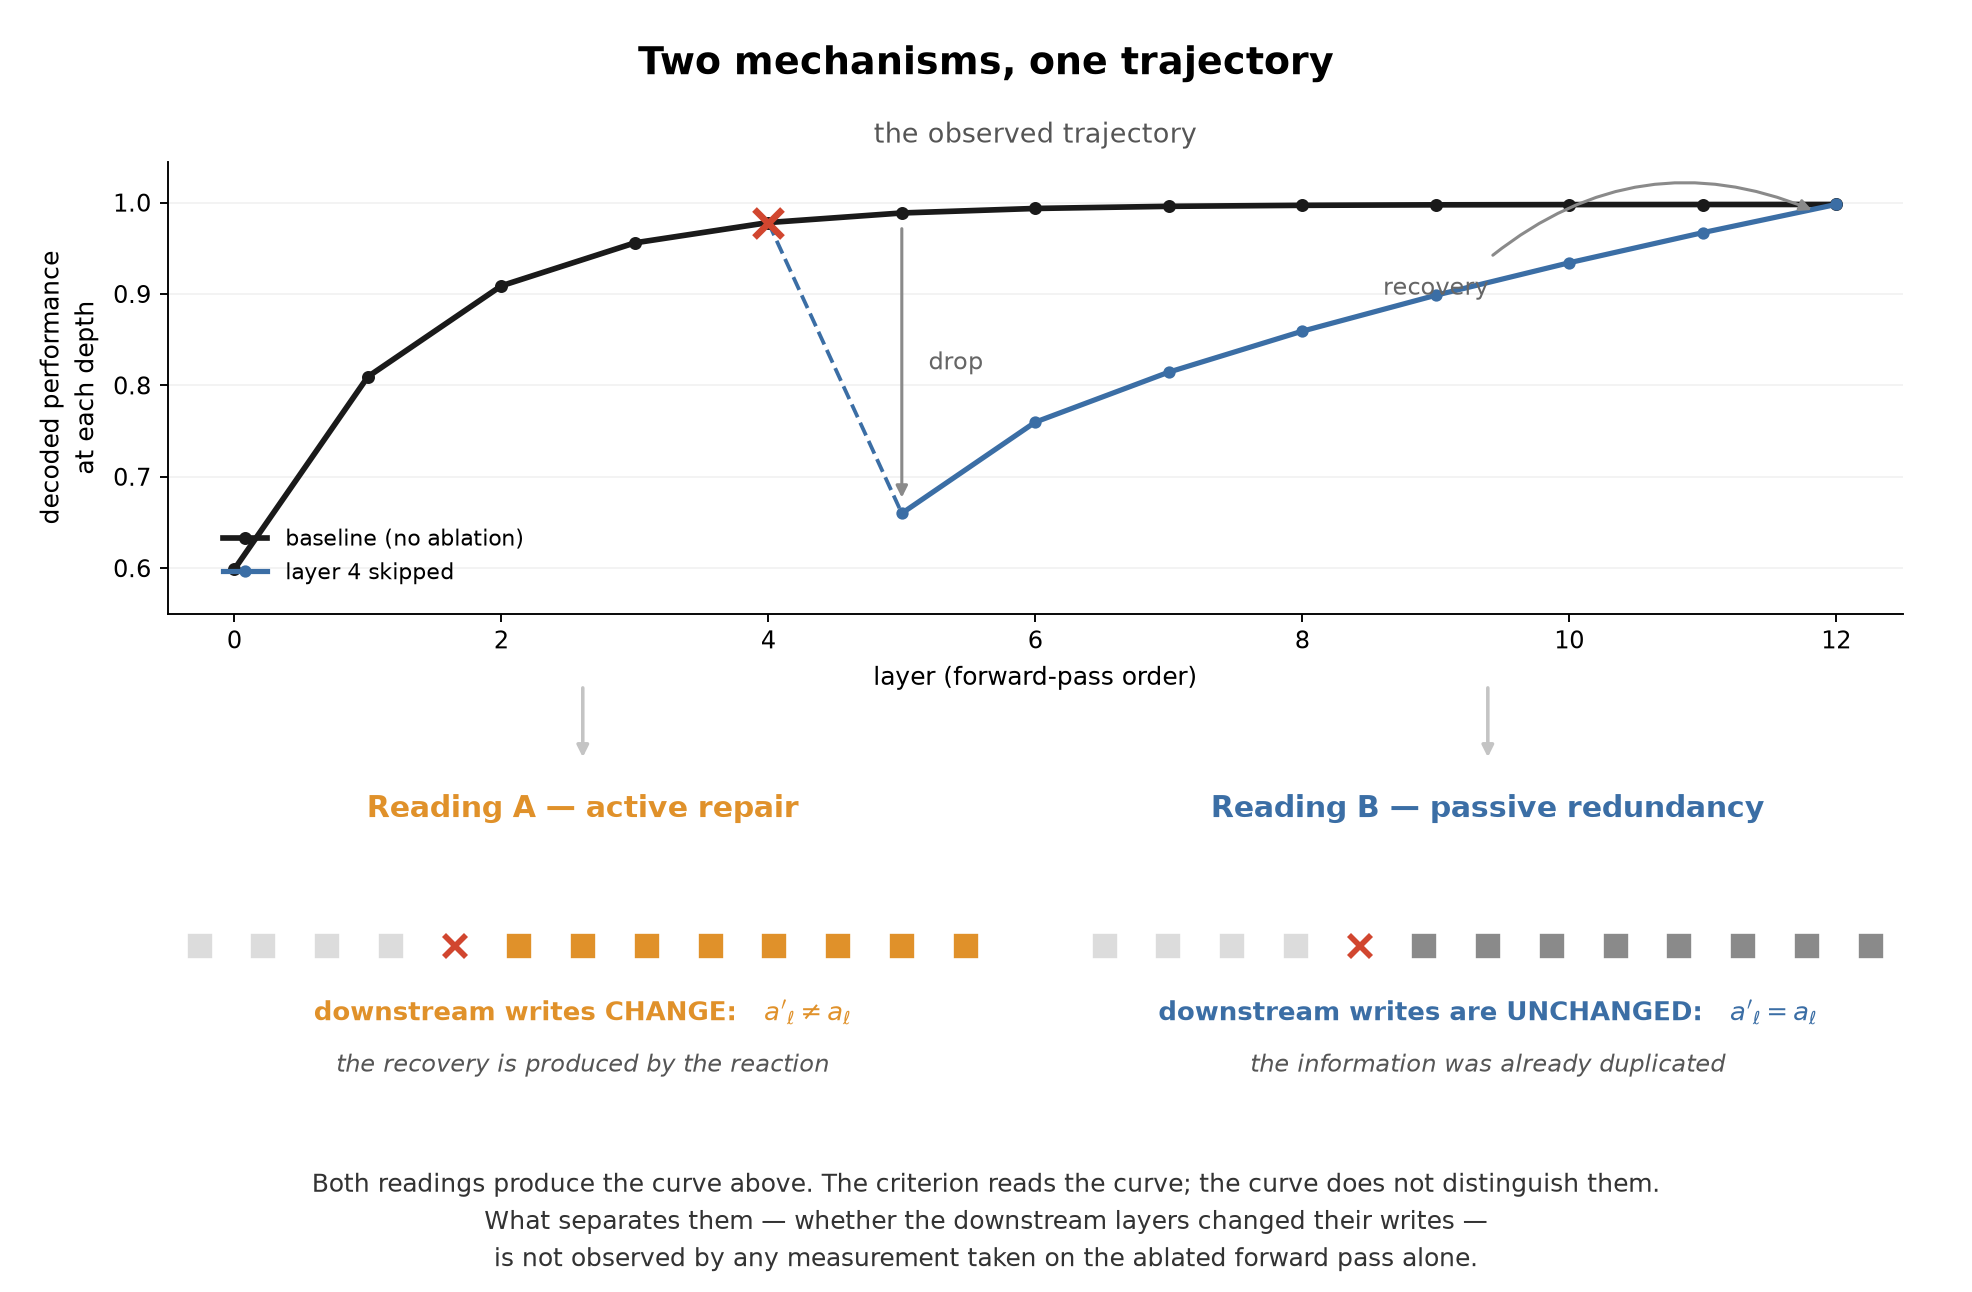
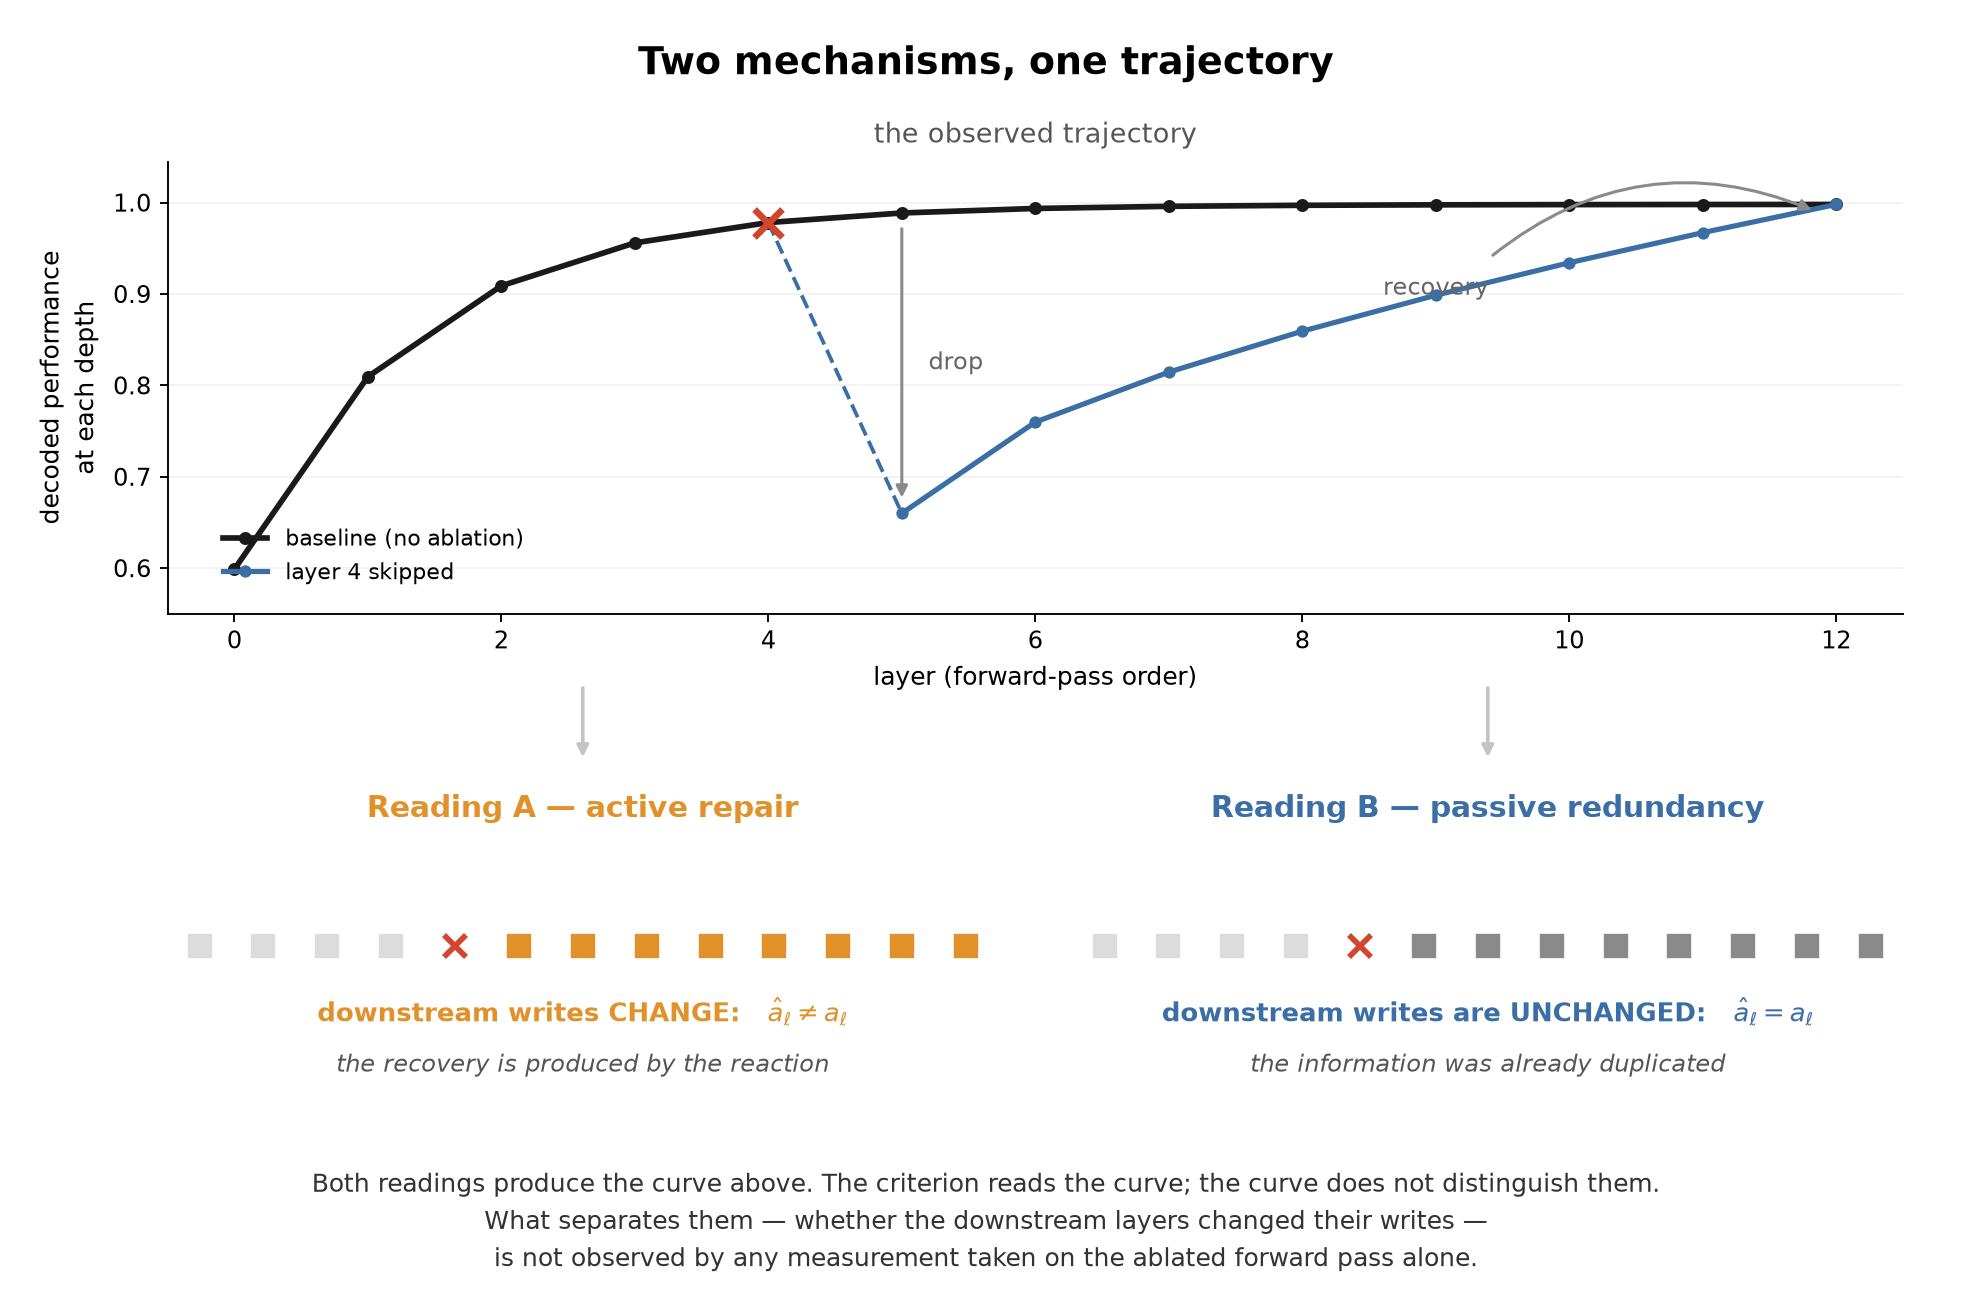
article: section 2 pass
Definitions:
- define "clean" before using it, and tie it to the Original panel of
  Figure 1; note that the figure writes the substituted value a', where
  the text writes \tilde{a}
- y was "the output read from the final decoder", which says nothing
  about what kind of quantity it is; say it is a scalar measuring how
  strongly the model favours the correct class, fixed in section 4
- cite Pearl for the causal model and the effect decomposition [6]; that
  framing is not McGrath et al.'s contribution, CE is

Toy example:
- components are A and B, their written values a and b, matching Figure 1
- give the readout y = a + b and the intervention do(A = 0); without
  them the DE/TE/CE columns cannot be checked
- drop the clean-y column, which was constant; that all three worlds
  agree when clean is a point, so it goes in the prose
- state the effects per pair of worlds instead of as ordered triples
  0,0,1 / 0,1,1, which the reader had to align by position
- caption all three tables in the article

Quantification in language models:
- TE << DE overstates it; the slope of 0.69 means 30% survives. TE < DE
- "Reproduced from" for Figures 1 and 2 read as if we re-ran them. They
  are taken from [1]. Figure 3 keeps "our reproduction" — that one we did
  re-run
- say what a point in Figure 2 is
- move the R^2/slope gloss to a footnote and cite the source figures
  (Figure 2c, Figures 4b and 4d of [1])

Notation: the ablated-pass write was a'_\ell, colliding with the figure's
[…]

Changed region(s): [[0.5877, 0.774, 0.928, 0.805], [0.1547, 0.774, 0.4331, 0.805]]

diff --git a/articles/tfm-self-repair.md b/articles/tfm-self-repair.md
@@ -37,39 +37,43 @@ Mechanistic interpretability rests on a simple inference. We ablate a component,
 ## 2. Self-repair: definition and prior quantification
 {: #definition}
 
-**Intuition.** The intuition behind self-repair is that a network is not a fixed pipeline but a system that reacts to its own damage. When a component is removed, the components downstream of it see a different residual stream, and they may respond by writing something different from what they would have written otherwise. Self-repair is the case in which that response pushes the output back towards its undamaged value. Note that the definition is a statement about the downstream *reaction*, not about the output: an output that barely moves is compatible with a strong reaction and with no reaction at all.
+**Intuition.** The intuition behind self-repair is that a network is not a fixed pipeline but a system that reacts to its own damage. When a component is removed, the components downstream of it see a different residual stream, and they may respond by writing something different from what they would have written otherwise. Self-repair is the case in which that response pushes the output back towards its undamaged value. Note that the definition is a statement about the downstream *reaction*, not about the output: an output that barely moves is compatible with a strong reaction (e.g., active repair) and with no reaction at all (e.g., passive redundancy).
 
-**Formalism.** We treat the network as a causal model in which \\(A\\) denotes the component under study, \\(B\\) denotes everything downstream of it, and \\(y\\) denotes the output read from the final decoder. Let \\(\tilde{a}\\) be the value we substitute for \\(A\\)'s output. We define three effects, which differ only in what we allow to react.
+**Formalism.** The network can be viewed as a causal model [[6](#ref-6)] in which \\(A\\) denotes the component under study (e.g., a layer or an attention head), \\(B\\) denotes everything downstream of it, and \\(y\\) denotes a scalar read off the final decoder that measures how strongly the model favours the correct class; we fix the choice in Section 4. We refer to the unablated forward pass as the *clean* pass — the **Original** panel of Figure 1 — and to the value a component takes in it as its *clean* value. Let \\(\tilde{a}\\) be the value we substitute for \\(A\\)'s output, written \\(a'\\) in the figure. We define three effects, illustrated in the remaining three panels, which differ only in what we allow to react.
 
 - The **total effect** \\(TE\\) is the change in \\(y\\) when we set \\(A = \tilde{a}\\) and let \\(B\\) react freely.
 - The **direct effect** \\(DE\\) is the change in \\(y\\) when we set \\(A = \tilde{a}\\) and simultaneously freeze \\(B\\) at its clean values, so that only the path \\(A \to y\\) carries the intervention.
 - The **indirect effect** \\(IE\\) is the change in \\(y\\) when we leave \\(A\\) clean and set \\(B\\) to the values it would take under the intervention, so that only the path \\(A \to B \to y\\) carries it.
 
 ![Total, direct, and indirect effects](/assets/img/tfm-self-repair/hydra-te-de-ie.png)
-*Figure 1: the three effects differ only in which nodes are pinned to their clean values. Reproduced from McGrath et al. [[1](#ref-1)].*
+*Figure 1: **Original** is the clean pass, in which \\(a\\) and \\(b\\) take their clean values. The three effects differ only in which nodes the intervention reaches: \\(do(A = a')\\) substitutes \\(A\\)'s output, and \\(do(B = b)\\) pins \\(B\\) to its clean value so that the intervention cannot travel through it. Taken from [[1](#ref-1)].*
 
-The three are related by \\(TE = DE + IE\\). Following McGrath et al. [[1](#ref-1)] we define the **compensation effect**
+The three are related by \\(TE = DE + IE\\). Following [[1](#ref-1)] we define the **compensation effect**
 
 $$CE = DE - TE = -IE ,$$
 
 and we say that a component *self-repairs* if \\(CE > 0\\), i.e., if the damage that reaches the output is smaller than the damage the component's own contribution would predict. Note that \\(CE < 0\\) means the downstream reaction amplifies the loss and \\(CE = 0\\) means the downstream layers are passive.
 
-**Why both quantities are needed.** It is easy to see that neither effect alone identifies self-repair. Consider a toy network with two components, \\(a\\) and \\(b\\), writing into a shared stream read at the output, and consider three worlds.
+**Why both \\(TE\\) and \\(DE\\) are needed.** It is easy to see that neither effect alone identifies self-repair. Consider a toy network with two components, \\(A\\) and \\(B\\), writing values \\(a\\) and \\(b\\) into a shared stream read at the output as \\(y = a + b\\), and consider three worlds. All three produce the same clean output, \\(y = 1\\), so nothing distinguishes them until we intervene; the intervention is \\(do(A = 0)\\).
 
-| world | \\(a\\) writes | \\(b\\)'s rule | clean \\(y\\) | \\(DE\\) | \\(TE\\) | \\(CE\\) |
-|---|---|---|---|---|---|---|
-| ① redundant | \\(0\\) | \\(b = 1\\) always | \\(1\\) | \\(0\\) | \\(0\\) | \\(0\\) |
-| ② repaired | \\(1\\) | \\(b = 1 - a\\) | \\(1\\) | \\(1\\) | \\(0\\) | \\(1\\) |
-| ③ load-bearing | \\(1\\) | \\(b = 0\\) always | \\(1\\) | \\(1\\) | \\(1\\) | \\(0\\) |
+| world | \\(A\\) writes | \\(B\\)'s rule | \\(DE\\) | \\(TE\\) | \\(CE\\) |
+|---|---|---|---|---|---|
+| ① redundant | \\(0\\) | \\(b = 1\\) always | \\(0\\) | \\(0\\) | \\(0\\) |
+| ② repaired | \\(1\\) | \\(b = 1 - a\\) | \\(1\\) | \\(0\\) | \\(1\\) |
+| ③ load-bearing | \\(1\\) | \\(b = 0\\) always | \\(1\\) | \\(1\\) | \\(0\\) |
 
-The total effect takes the values \\(0, 0, 1\\) and therefore cannot separate ① from ②; the direct effect takes the values \\(0, 1, 1\\) and therefore cannot separate ② from ③. Only the gap, \\(CE = 0, 1, 0\\), isolates the repaired world. We use this table as the reading key for the remainder of the paper.
+*Table 1: three worlds that are indistinguishable at the clean output. Only \\(CE\\) takes a different value in each of the three, so only \\(CE\\) identifies the repaired one.*
 
-**Quantification in language models.** McGrath et al. [[1](#ref-1)] evaluate a 7B-parameter Chinchilla model on 1209 factual-recall prompts, ablating one attention layer at a time. They obtain \\(DE\\) by unembedding the layer's own output directly, and \\(TE\\) by ablating the layer and reading the final logits. Figure 2 shows their central result: the point cloud of \\((DE, TE)\\) pairs sits predominantly *below* the diagonal \\(y = x\\), i.e., \\(TE \ll DE\\) for a large fraction of (layer, prompt) pairs. This is the decoupling that the naive ablation account does not predict, and it is the empirical signature of \\(CE > 0\\).
+The total effect is \\(0\\) in both ① and ②, and therefore cannot separate them; the direct effect is \\(1\\) in both ② and ③, and therefore cannot separate those. Only the gap separates all three, since \\(CE\\) is non-zero in ② and zero in ① and ③. We use this table as the reading key for the remainder of the paper.
+
+**Quantification in language models.** McGrath et al. [[1](#ref-1)] evaluate a 7B-parameter Chinchilla model on 1209 factual-recall prompts, ablating one attention layer at a time. They obtain \\(DE\\) by unembedding the layer's own output directly, and \\(TE\\) by ablating the layer and reading the final logits. Figure 2 shows their central result: the point cloud of \\((DE, TE)\\) pairs sits predominantly *below* the diagonal \\(y = x\\), i.e., \\(TE < DE\\) for a large fraction of (layer, prompt) pairs. This is the decoupling that the naive ablation account does not predict, and it is the empirical signature of \\(CE > 0\\).
 
 ![Hydra scatter: TE versus DE](/assets/img/tfm-self-repair/hydra-ref-scatter.png)
-*Figure 2: direct effect against total effect in a language model. Mass below the diagonal is the signature of self-repair. Reproduced from McGrath et al. [[1](#ref-1)].*
+*Figure 2: direct effect against total effect in a language model. One point is one (layer, prompt) pair, coloured by layer depth. Mass below the diagonal is the signature of self-repair. Taken from Figure 2c of [[1](#ref-1)].*
 
-Moreover, the compensation is proportional. Regressing \\(CE\\) on \\(DE\\) across prompts, layer by layer, McGrath et al. find a tight linear relation in the middle and late layers, peaking at layer 23 with \\(R^2 = 0.92\\) and slope \\(0.69\\). The two numbers carry distinct information: the \\(R^2\\) says the compensation is systematic, i.e., how much is lost predicts how much is restored, and the slope says it is partial, i.e., about 70% of the direct contribution is restored. We adopt both as our reference, since a scattered relation would indicate coincidence rather than a mechanism.
+Moreover, the compensation is proportional. Regressing \\(CE\\) on \\(DE\\) across prompts, layer by layer, they find a tight linear relation in the middle and late layers, peaking at layer 23 with \\(R^2 = 0.92\\) and slope \\(0.69\\) (Figures 4b and 4d of [[1](#ref-1)]).[^hydrafit] We adopt both as our reference, since a scattered relation would indicate coincidence rather than a mechanism.
+
+[^hydrafit]: The two numbers carry distinct information. The \\(R^2\\) says the compensation is systematic, i.e., how much is lost predicts how much is restored. The slope says it is partial, i.e., about 70% of the direct contribution is restored and the remaining 30% survives to the output.
 
 ## 3. Self-repair in TFMs: the prior claim and what it identifies
 {: #prior-claim}
@@ -83,10 +87,10 @@ Moreover, the compensation is proportional. Regressing \\(CE\\) on \\(DE\\) acro
 
 **Two measurement choices.** Before the main argument, we note two choices that make the phenomenon harder to see, both of which we revisit in Section 4. First, performance is measured by AUC. AUC is rank-based and saturates: once an early layer separates the classes, later layers can sharpen or suppress the true class without moving the metric, so a flat AUC curve is uninformative about what the late layers do. Second, layers are removed by skipping, which is a form of zero ablation. Zero ablation sets a component's contribution to a value the network never encounters during training, which takes the residual stream off-distribution and does not preserve its norm; the resulting perturbation is large but not representative.
 
-**The criterion is not identifying.** We now state the main argument, which is independent of the two choices above. Consider what happens under each mechanism when layer \\(m\\) is skipped, and write \\(a_\ell\\) for the value layer \\(\ell\\) writes into the residual stream in the clean pass and \\(a'_\ell\\) for what it writes in the ablated pass.
+**The criterion is not identifying.** We now state the main argument, which is independent of the two choices above. Consider what happens under each mechanism when layer \\(m\\) is skipped, and write \\(a_\ell\\) for the value layer \\(\ell\\) writes into the residual stream in the clean pass and \\(\hat{a}_\ell\\) for what it writes in the ablated pass.
 
-- Under **active repair**, the downstream layers respond to the missing write, so $$a'_\ell \neq a_\ell$$ for $$\ell > m$$, and the recovery is produced by that response.
-- Under **passive redundancy**, the downstream layers write exactly what they always write, $$a'_\ell = a_\ell$$, and the recovery occurs because the information carried by \\(a_m\\) is duplicated in the residual stream and in the input table, which remains in context.
+- Under **active repair**, the downstream layers respond to the missing write, so $$\hat{a}_\ell \neq a_\ell$$ for $$\ell > m$$, and the recovery is produced by that response.
+- Under **passive redundancy**, the downstream layers write exactly what they always write, $$\hat{a}_\ell = a_\ell$$, and the recovery occurs because the information carried by \\(a_m\\) is duplicated in the residual stream and in the input table, which remains in context.
 
 Both produce a drop at depth \\(m+1\\), where \\(a_m\\) is simply absent from the residual stream, and both produce a recovery by depth \\(L\\). Figure 4 draws the two worlds with the same curve, because the curve is the same.
 
@@ -171,6 +175,8 @@ We report the fraction of points in each region, using a threshold of \\(0.1\\) 
 | TabICL-v2 | 41% | 40% | 13% | 0% | 5% |
 | TabFM | 78% | 10% | 7% | 1% | 1% |
 
+*Table 2: share of (layer, task) pairs in each region of Figure 9, margin coordinate, threshold \\(0.1\\). The repaired region holds 0–11% in every model.*
+
 Two observations follow. First, the repaired region holds 0–11% of the points in every model, which is the quantitative form of the null. Second, the layers with \\(DE \approx 0\\) split in a model-dependent way: TabFM is dominated by genuine redundancy (78% at the origin), whereas in LimiX-2M most such layers are indirectly important (53%), i.e., replacing their write with a donor's does damage the output even though they do not write the decision themselves. Note that "indirectly important" is a substantive finding and not an artifact of noise, because the substitution is a role-matched donor write: if an arbitrary donor still damages the output, the specific computation of that layer is not interchangeable.
 
 In the interest of reporting the strongest evidence against our conclusion, we note that 65% of LimiX-2M points and 64% of Mitra points lie below the diagonal. Taken alone this would suggest a weak repair tendency. However, the location of the median is not the criterion of Section 4: the associated magnitudes are \\(+0.09\\) and \\(+0.01\\) against a clean final margin of \\(1\\), and the second requirement — a proportional compensation law — fails, as we show next.
@@ -196,6 +202,8 @@ The per-row distributions are unimodal at zero in all four models, neither bimod
 | TabICL-v2 | L10 | \\(-0.41\\) | **0.58** |
 | TabFM | L18 | \\(-0.08\\) | 0.04 |
 | *Chinchilla 7B [[1](#ref-1)]* | *L23* | *\\(+0.69\\)* | *0.92* |
+
+*Table 3: per-layer regression of \\(CE\\) on \\(DE\\) across the 15 tasks, reported at the layer where \\(R^2\\) peaks. The last row is the language-model reference. No TFM layer combines a high \\(R^2\\) with a slope in \\((0, 1)\\).*
 
 ![Per-layer CE against DE](/assets/img/tfm-self-repair/compensation-fit.png)
 *Figure 11: per-layer regression of the compensation effect on the direct effect. No layer reproduces the language-model relation.*
@@ -245,6 +253,8 @@ All code, the ablation sweeps, and the scripts that regenerate every figure in t
 <span id="ref-4"></span>[4] J. Miller, B. Chughtai, L. Sharkey. *Transformer Circuit Faithfulness Metrics are not Robust.* [arXiv:2407.08734](https://arxiv.org/abs/2407.08734), 2024.
 
 <span id="ref-5"></span>[5] A. R. Balef, M. Koshil, K. Eggensperger. *Is One Layer Enough? Understanding Inference Dynamics in Tabular Foundation Models.* [arXiv:2605.06510](https://arxiv.org/abs/2605.06510), 2026.
+
+<span id="ref-6"></span>[6] J. Pearl. *Direct and Indirect Effects.* Proceedings of the 17th Conference on Uncertainty in Artificial Intelligence (UAI), 2001.
 
 ---
 
